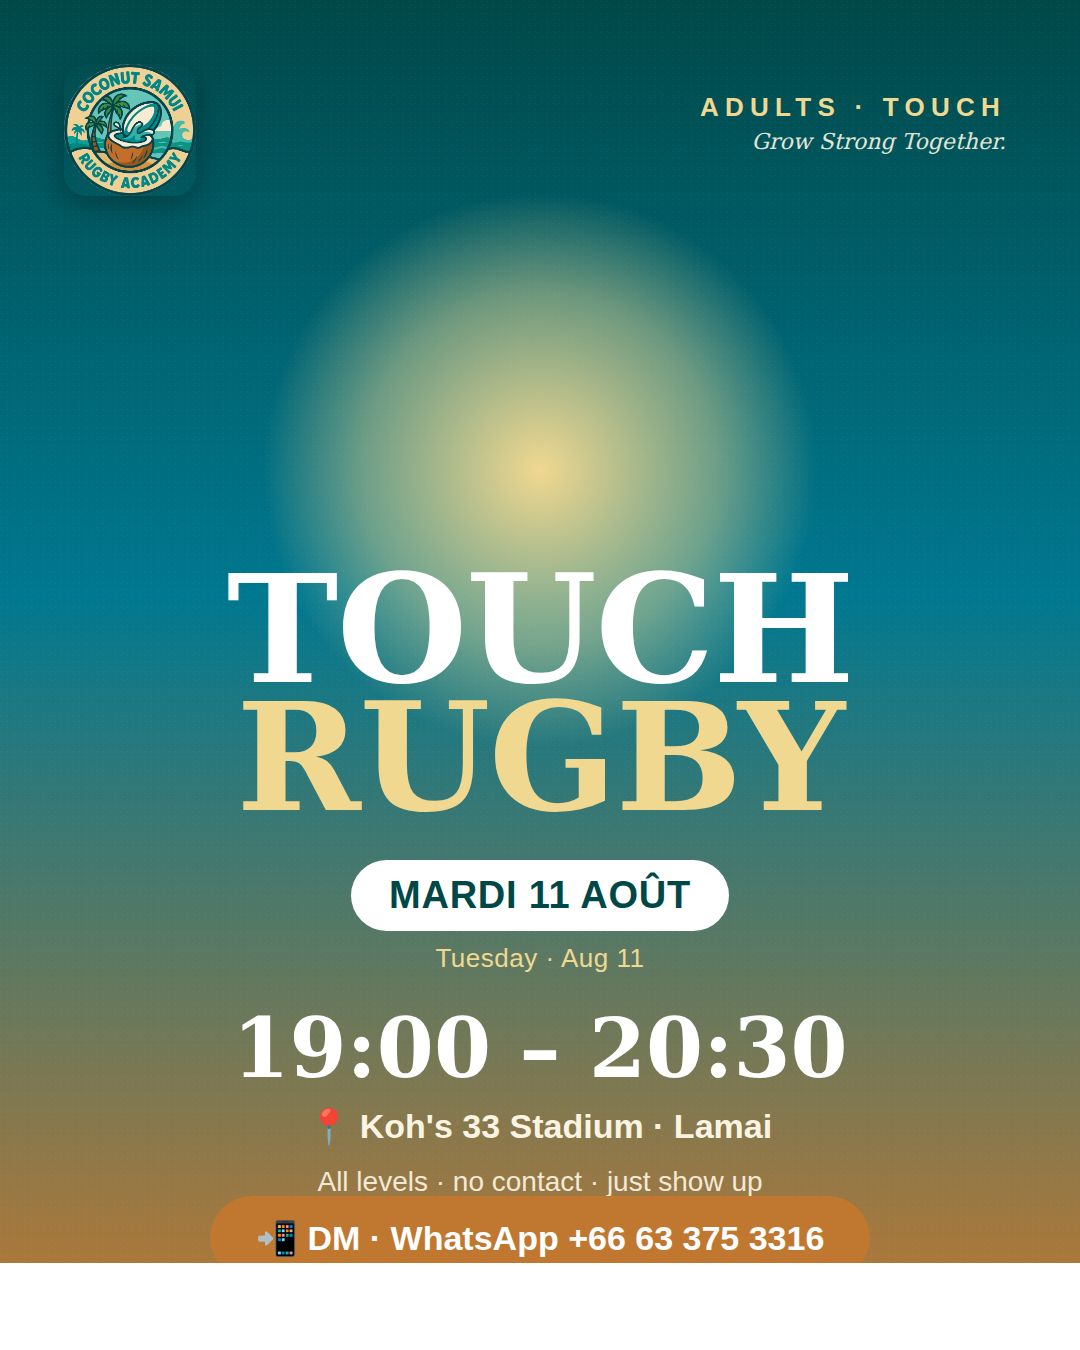
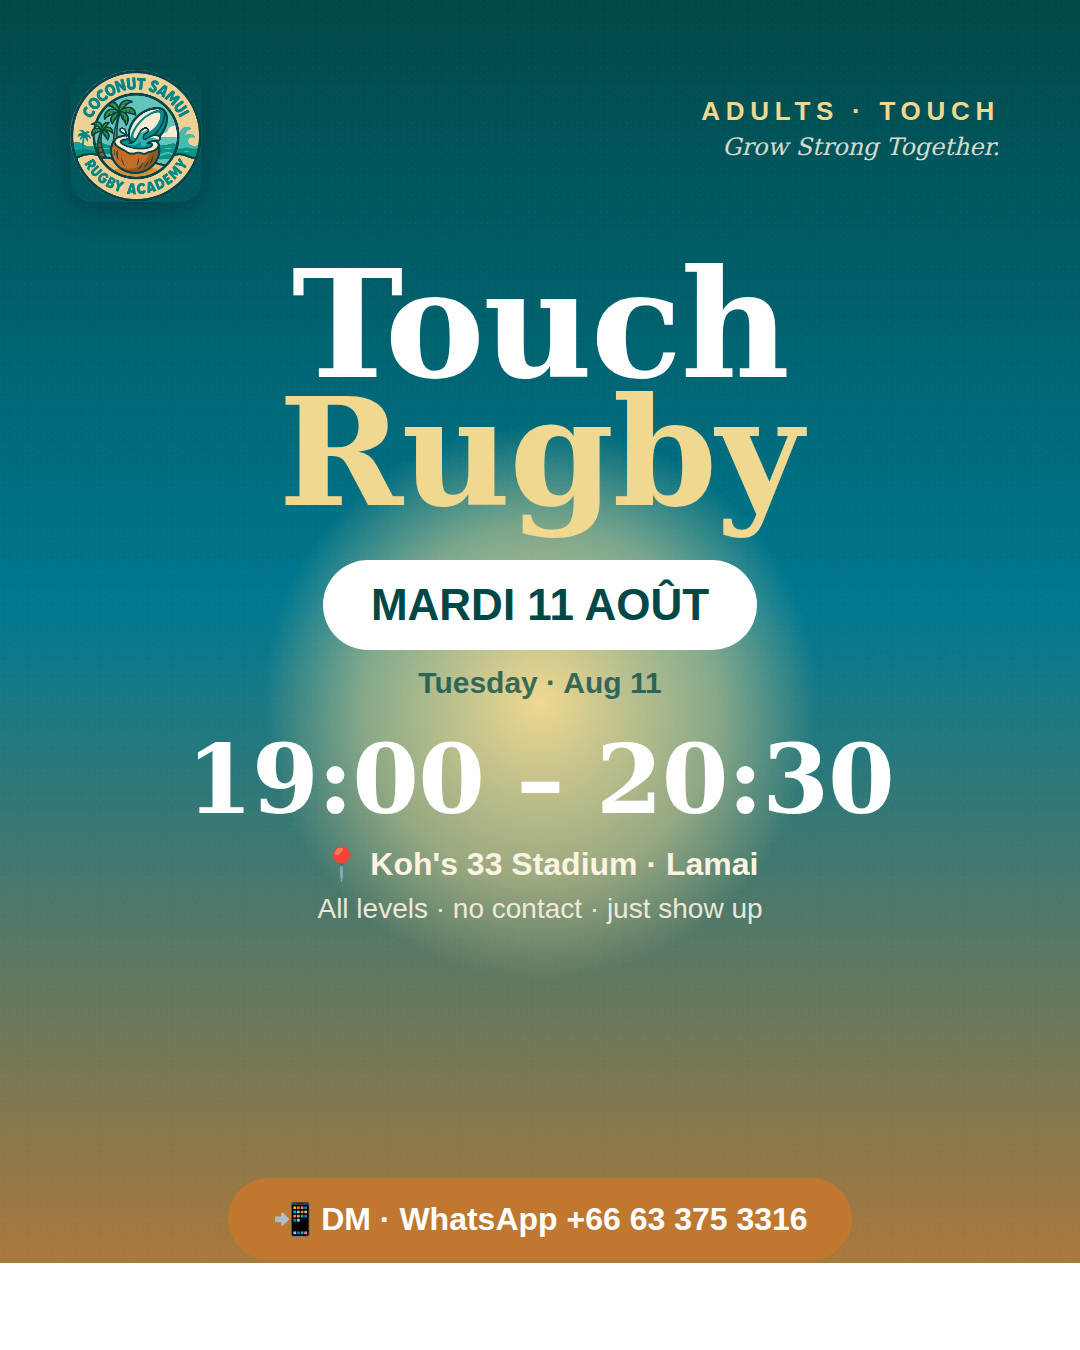
marketing: recentre le texte des posters Touch Rugby restants
Le bloc titre/date/heure/lieu était poussé vers le bas du visuel
(beaucoup de vide en haut, bandeau WhatsApp collé au bord). Nouveau
générateur dédié (gen-touch-poster.cjs) qui centre ce bloc verticalement
dans l'espace entre l'en-tête et le CTA. Régénère les 3 mardis pas
encore publiés (11, 18, 25/08) — 28/07 et 04/08 laissés tels quels.

diff --git a/brain/marketing-assets/touch-mardis-2026-08/programme.md b/brain/marketing-assets/touch-mardis-2026-08/programme.md
@@ -27,6 +27,17 @@ all levels, social vibe. Just show up.
 
 **Hashtags** — #touchrugby #kohsamui #samuiexpats #lamai #adultsrugby #growstrongtogether
 
+## Régénérer les visuels
+
+Le générateur dédié `gen-touch-poster.cjs` produit les 3 mardis restants (11/08, 18/08, 25/08 —
+les 28/07 et 04/08 sont déjà publiés, ne pas les regénérer). Bloc central (titre, date, heure,
+lieu) **centré verticalement** dans l'espace entre l'en-tête et le bandeau WhatsApp.
+
+```bash
+node brain/marketing-assets/touch-mardis-2026-08/gen-touch-poster.cjs /chemin/de/sortie
+# puis rendre chaque .html en .png 1080×1350 via Chromium headless — voir ../README.md
+```
+
 ## Publication
 
 - **Postiz** (recommandé) : `node brain/marketing-assets/postiz-push.cjs brain/marketing-assets/touch-mardis-2026-08/manifest.json`
